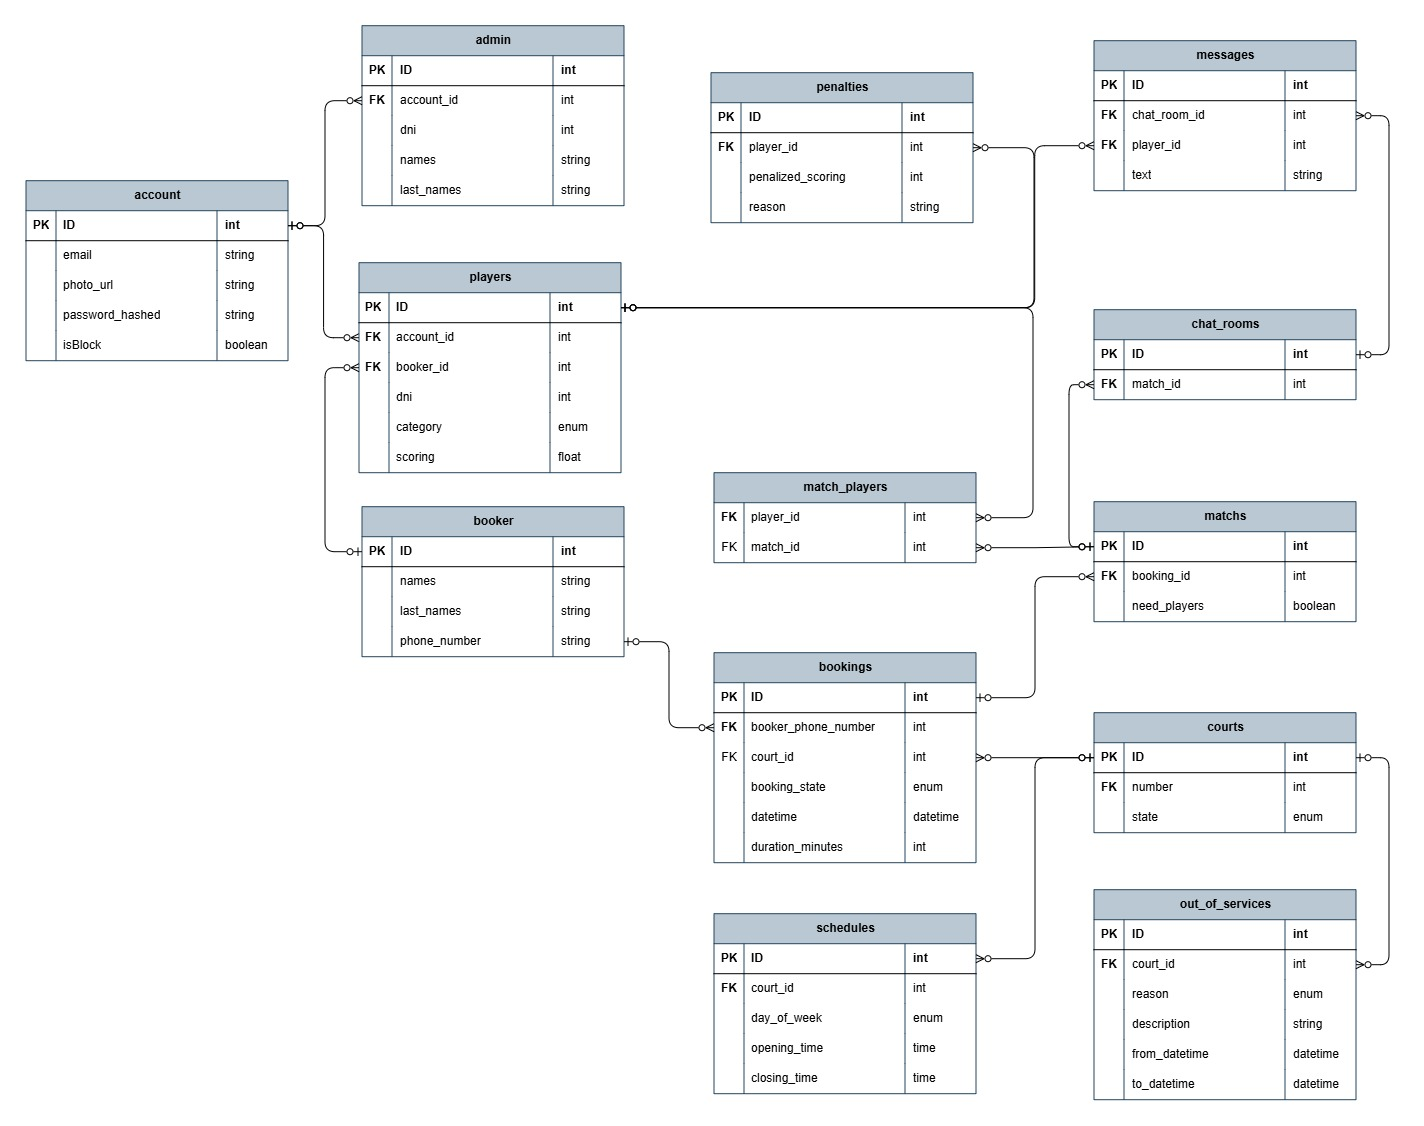
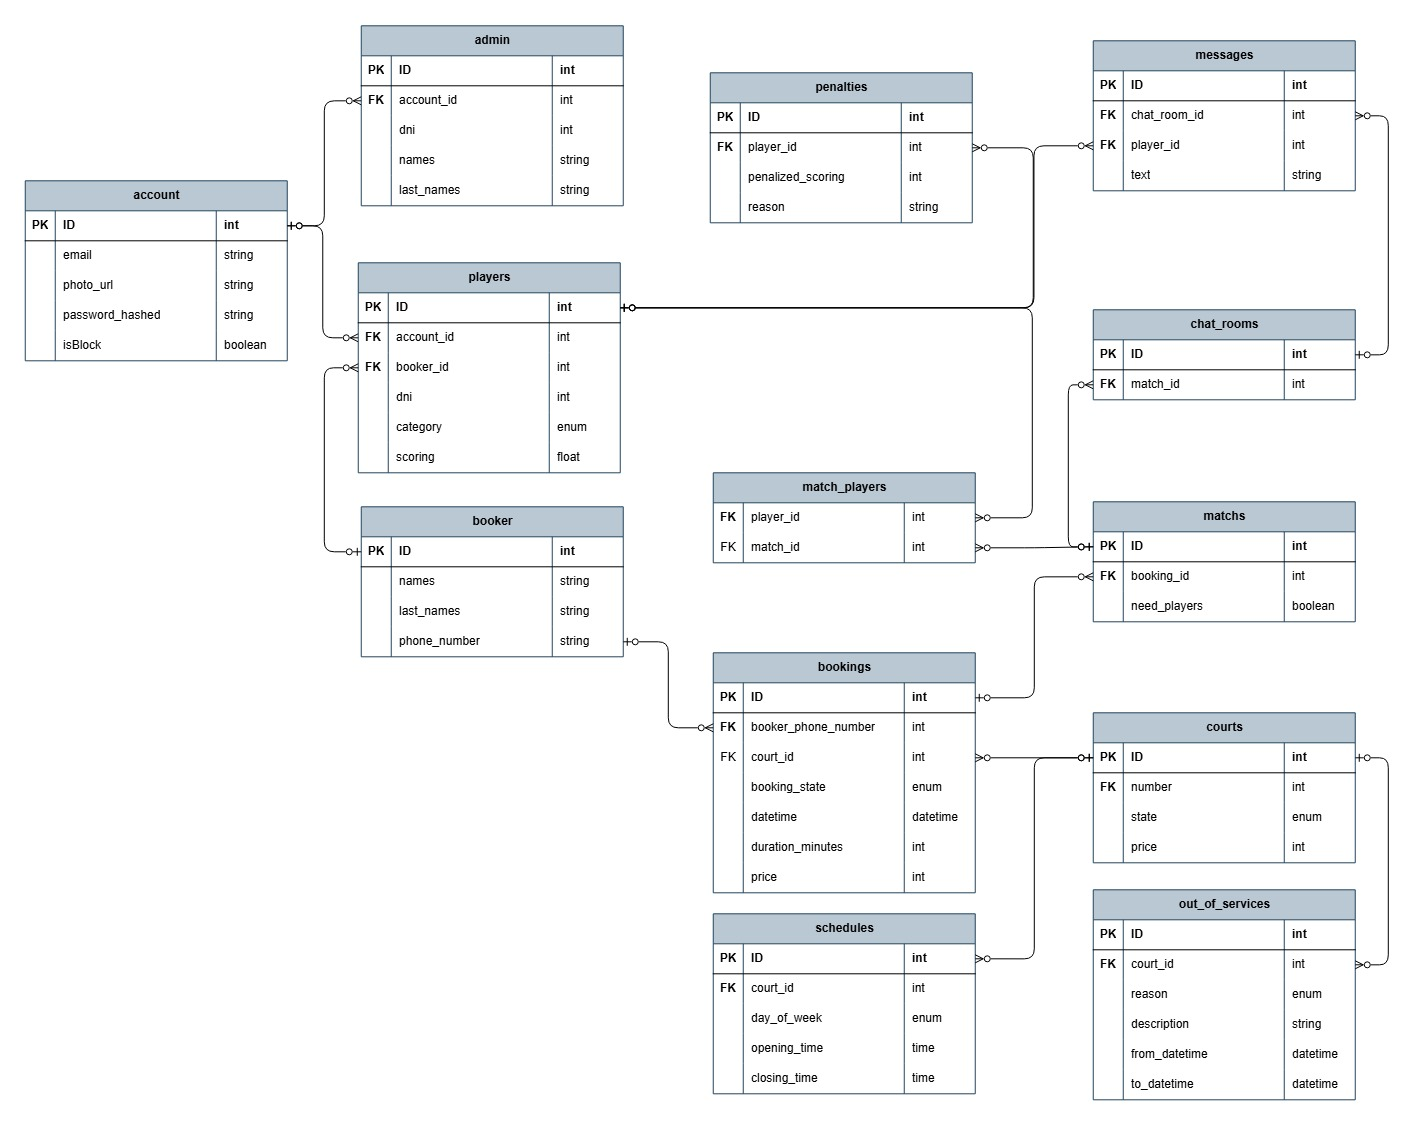
refactor(court): keep static venue location in views and update diagrams with pricing

diff --git a/app/bookings/types.ts b/app/bookings/types.ts
@@ -1,6 +1,6 @@
 import { BookingState, CourtState, DayOfWeek } from "@/src/domain/enums";
 
-export type CourtProp = { id: number; number: number; state: CourtState; location?: string; price?: number };
+export type CourtProp = { id: number; number: number; state: CourtState; price?: number };
 
 export type ScheduleProp = {
   id: number;
@@ -48,7 +48,6 @@ export type Slot = {
 export type SelectedSlot = {
   courtId: number;
   courtNumber: number;
-  courtLocation?: string;
   price: number;
   start: Date;
   end: Date;
@@ -58,7 +57,6 @@ export type SelectedOpenMatch = {
   bookingId: number;
   courtId: number;
   courtNumber: number;
-  courtLocation?: string;
   price: number;
   start: Date;
   end: Date;

diff --git a/app/bookings/bookings-board.tsx b/app/bookings/bookings-board.tsx
@@ -173,7 +173,6 @@ export function BookingsBoard({
         bookingId: slot.bookingId!,
         courtId: court.id,
         courtNumber: court.number,
-        courtLocation: court.location,
         price: openBooking?.price ?? court.price ?? DEFAULT_SLOT_PRICE,
         start: slot.start,
         end: slot.end,
@@ -195,7 +194,6 @@ export function BookingsBoard({
     setSelectedSlot({
       courtId: court.id,
       courtNumber: court.number,
-      courtLocation: court.location,
       price: court.price ?? DEFAULT_SLOT_PRICE,
       start: slot.start,
       end: slot.end,

diff --git a/src/actions/court.ts b/src/actions/court.ts
@@ -10,7 +10,6 @@ import { toPlain, type ActionResult } from "@/src/lib/action-result";
 export type CreateCourtInput = {
   number: number;
   state?: CourtState;
-  location?: string;
   price?: number;
 };
 
@@ -26,7 +25,6 @@ export async function createCourt(
     const court = courts.create({
       number: input.number,
       state: input.state ?? CourtState.AVAILABLE,
-      location: input.location ?? "Cam. Centenario 8907, B1894 Villa Elisa, Provincia de Buenos Aires",
       price: input.price ?? 10000,
     });
 

diff --git a/app/bookings/court-card.tsx b/app/bookings/court-card.tsx
@@ -35,7 +35,7 @@ export function CourtCard({
       </div>
       <p className="mt-1 flex items-center gap-1.5 text-xs text-foreground/50">
         <MapPin className="h-3.5 w-3.5 shrink-0 text-primary" />
-        <span className="truncate">{court.location ?? "Cam. Centenario 8907, Villa Elisa"}</span>
+        <span className="truncate">Cam. Centenario 8907, Villa Elisa</span>
       </p>
 
       <div className="mt-4 border-t border-line pt-4">

diff --git a/app/bookings/booking-summary.tsx b/app/bookings/booking-summary.tsx
@@ -60,7 +60,7 @@ export function BookingSummary({
           <SummaryRow
             icon={<MapPin className="h-5 w-5" />}
             label="Ubicación"
-            value={selectedSlot.courtLocation ?? "Cam. Centenario 8907, Villa Elisa"}
+            value="Cam. Centenario 8907, Villa Elisa"
           />
           <SummaryRow
             icon={<Clock className="h-5 w-5" />}

diff --git a/app/bookings/join-match-panel.tsx b/app/bookings/join-match-panel.tsx
@@ -55,7 +55,7 @@ export function JoinMatchPanel({
         <SummaryRow
           icon={<MapPin className="h-5 w-5" />}
           label="Ubicación"
-          value={selectedMatch.courtLocation ?? "Cam. Centenario 8907, Villa Elisa"}
+          value="Cam. Centenario 8907, Villa Elisa"
         />
         <SummaryRow
           icon={<Clock className="h-5 w-5" />}

diff --git a/app/my-bookings/page.tsx b/app/my-bookings/page.tsx
@@ -33,7 +33,6 @@ export default async function MyBookingsPage() {
       durationMinutes: b.durationMinutes,
       bookingState: b.bookingState,
       courtNumber: b.court?.number ?? 0,
-      courtLocation: b.court?.location,
       price: b.price ?? 10000,
       matchId: b.match?.id ?? null,
       needPlayers: b.match?.needPlayers ?? false,

diff --git a/src/entities/Court.ts b/src/entities/Court.ts
@@ -13,13 +13,6 @@ export class Court {
   @Column({ type: "enum", enum: CourtState })
   state!: CourtState;
 
-  @Column({
-    type: "varchar",
-    length: 255,
-    default: "Cam. Centenario 8907, B1894 Villa Elisa, Provincia de Buenos Aires",
-  })
-  location!: string;
-
   @Column({ type: "int", default: 10000 })
   price!: number;
 

diff --git a/app/bookings/page.tsx b/app/bookings/page.tsx
@@ -82,7 +82,6 @@ export default async function BookingsPage() {
             id: c.id,
             number: c.number,
             state: c.state,
-            location: c.location,
             price: c.price,
           }))}
           schedules={schedules.map((s) => ({

diff --git a/app/my-bookings/types.ts b/app/my-bookings/types.ts
@@ -6,7 +6,6 @@ export type MyBookingItem = {
   durationMinutes: number;
   bookingState: BookingState;
   courtNumber: number;
-  courtLocation?: string;
   price: number;
   /** Id del partido abierto asociado, si lo hay. */
   matchId: number | null;

diff --git a/scripts/seed.ts b/scripts/seed.ts
@@ -25,7 +25,6 @@ async function main() {
       courts.create({
         number,
         state: CourtState.AVAILABLE,
-        location: "Cam. Centenario 8907, B1894 Villa Elisa",
         price: 10000,
       }),
     );
